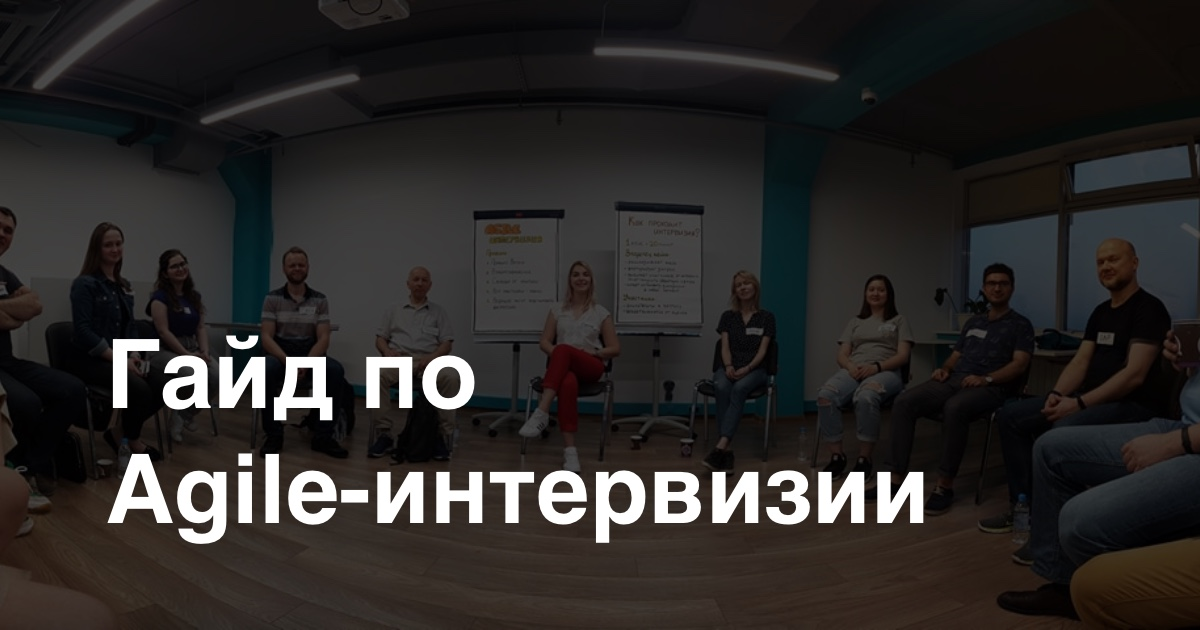
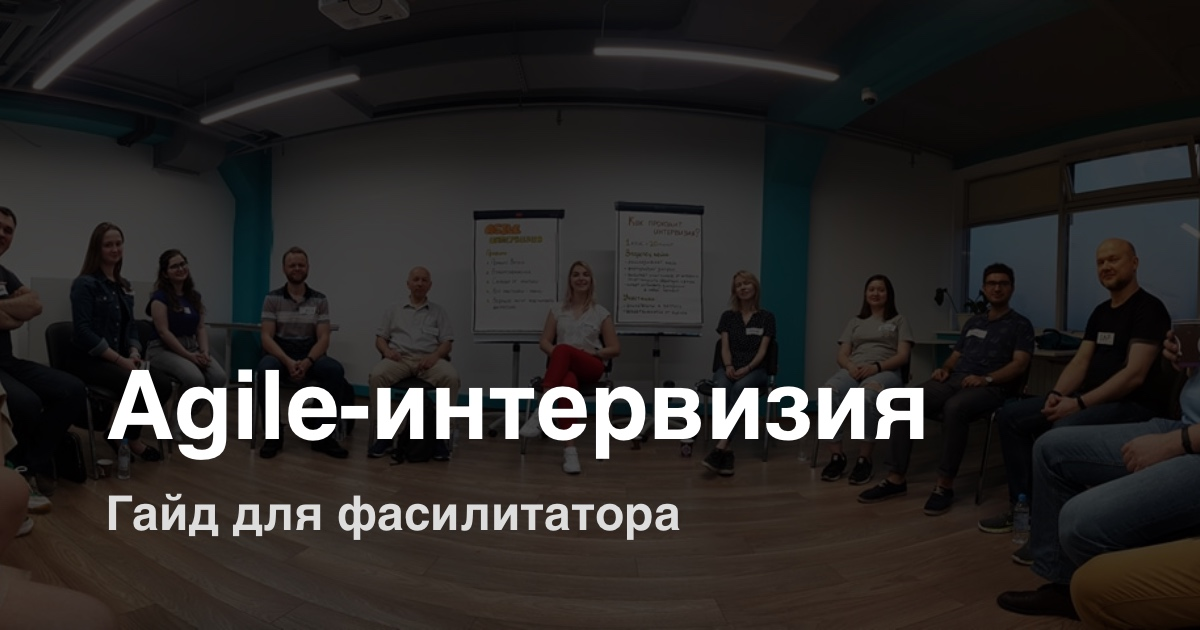
update content

Changed region(s): [[0.0925, 0.5127, 0.7708, 0.8746]]

diff --git a/index.html b/index.html
@@ -1,1 +1,1 @@
-<!DOCTYPE html><html lang="ru"><head><title>Гайд по Agile-интервизии</title><meta name="description" content="Agile-интервизия – это группа взаимопомощи для agile-коучей и scrum-мастеров, на ней участники получают ответы на свои вопросы, рекомендации или поддержку."><link rel="canonical" href="https://agileintervision.ru/"><meta name="viewport" content="width=device-width,initial-scale=1"><meta property="og:type" content="website"><meta name="og:title" content="Гайд по Agile-интервизии"><meta name="og:description" content="Agile-интервизия – это группа взаимопомощи для agile-коучей и scrum-мастеров, на ней участники получают ответы на свои вопросы, рекомендации или поддержку."><meta name="og:image" content="https://agileintervision.ru/assets/image.jpg?v=ffbb9b"><meta name="og:url" content="https://agileintervision.ru/"><meta name="og:locale" content="ru_RU"><link rel="stylesheet" type="text/css" href="/style.css?v=2ea6f5"><script async src="https://www.googletagmanager.com/gtag/js?id=UA-163700219-1"></script><script type="text/javascript">function gtag(){dataLayer.push(arguments)}window.dataLayer=window.dataLayer||[],gtag("js",new Date),gtag("config","UA-163700219-1")</script><link rel="apple-touch-icon" sizes="152x152" href="/favicons/apple-touch-icon.png?v=c8e92b"><link rel="icon" type="image/png" sizes="32x32" href="/favicons/favicon-32x32.png?v=e825c5"><link rel="icon" type="image/png" sizes="16x16" href="/favicons/favicon-16x16.png?v=18a706"><link rel="manifest" href="/site.webmanifest?v=1e8a95"><link rel="mask-icon" href="/favicons/safari-pinned-tab.svg?v=e83e6f" color="#14b5d0"><link rel="shortcut icon" href="/favicon.ico"><meta name="msapplication-TileColor" content="#603cba"><meta name="msapplication-config" content="/browserconfig.xml?v=66f052"><meta name="theme-color" content="#f1fbfc"></head><body><div class="header"><div class="header-overlay"></div><div class="header-content"><div class="container"><h1>Гайд по Agile-интервизии</h1></div></div></div><div class="container"><p>Agile-интервизия – это группа взаимопомощи для Agile-коучей и scrum-мастеров.</p><p>На интервизии участники в небольшом кругу (до 20 человек) делятся своими запросами и получают от других участников то, что для них ценно: ответы на свои вопросы, поддержку, рекомендации или истории о чужом опыте.</p><p>Главный фокус интервизий и их отличие от случайной группы обмена опытом – доверительная и поддерживающая атмосфера (которую можно создать благодаря правилам и формату встреч, а также повышенному внимания ведущего к этому вопросу).</p></div><section class="container"><h2>Для кого</h2><p>Agile-интервизия рассчитана на agile-коучей и scrum-мастеров и не предполагает участия представителей других ролей.</p><blockquote><h5>Почему так?</h5>Представители помогающей профессии больше всего сталкиваются с выгоранием, отсутствием поддержки на работе и непониманием своей роли со стороны коллег. Эта роль часто требует нетривиального “ответа” на те или иные ситуации в команде или компании, отличающегося от ответа тимлида, менеджера проектов или участника команды.</blockquote></section><section class="container"><h2>Правила</h2><ol><li>Правило Вегаса</li><li>Свобода от критики и оценок</li><li>Взаимоуважение</li><li>Все участники равны</li><li>Ведущие могут модерировать дискуссию</li><li>Участники внимательны к запросу</li></ol><div class="online-only"><ol class="narrow" start="6"><li class="no-bullet"><b>Только для онлайн-интервизий</b></li><li>Полное присутствие (закрыть все остальные окна и выключить уведомления)</li><li>Включенная камера</li><li>Выключенный микрофон, когда говорят другие</li></ol></div></section><div class="container"><section><h2>План проведения</h2><p>Подготовьте плакаты с правилами интервизии и описанием того, как она проходит, разместите их в таком месте, чтобы они были хорошо видны на протяжении всей встречи, поставьте стулья в кружок.</p><div class="gallery"><div class="gallery-image"><img class="photo" src="/assets/poster1_sm.jpg?v=c267aa" data-original="/assets/poster1.png?v=e3abfa" alt="Правила Agile-интевизии"></div><div class="gallery-image"><img class="photo" src="/assets/poster2_sm.jpg?v=abe22d" data-original="/assets/poster2.png?v=368d7d" alt="Правила Agile-интевизии"></div></div><p>План фасилитации 3-часовой оффлайн интервизии выглядит так:</p><ol><li>Приветствие</li><li>Знакомство</li><li>Рассмотрение кейсов (2-3 кейса)</li><li>Перерыв (15-20 минут)</li><li>Рассмотрение кейсов (2-3 кейса)</li><li>Закрытие</li></ol><blockquote>Онлайн-интервизию имеет смысл сократить до 2 часов за счет уменьшения количества кейсов и более короткого перерыва.</blockquote></section><section><h3>Приветствие</h3><p class="subheader">Формирует атмосферу мероприятия, длительность – 7 минут</p><p>Расскажите участникам о том, <b>для чего</b> вы проводите интервизию, <b>какие ценности</b> видите в ней, <b>какой атмосферы</b> ожидаете. Очень подробно расскажите <b>о правилах</b> и попросите подтвердить согласие с ними (например, поднять палец вверх). Подробно расскажите <b>о формате</b>, в котором будут рассматриваться кейсы, чтобы участники знали, чего ожидать.</p></section><section><h3>Знакомство</h3><p class="subheader">Длительность – 10 минут</p></section><section><p>Просим участников по кругу представиться в таком формате:</p><ul><li>Как меня зовут?</li><li>Чем я занимаюсь? Какая у меня роль?</li><li>Есть ли у меня кейс, которые я хочу рассмотреть<br><i>(да/нет, не нужно рассказывать кейс)</i></li></ul></section><section><h3>Рассмотрение кейсов</h3><p class="subheader">2-3 кейса по 20 минут</p></section><blockquote><b>Кейс</b> – это любое затруднение, проблема, ситуация, вопрос или другая потребность участника, для которого ему требуется помощь от группы. Он может быть про конкретную проблему с командой, а может быть общим вопросом о том, кто как ставит цели в своих компаниях. Это может быть просьба выслушать и поддержать, или вопрос, требующий ссылок на материалы и литературу.</blockquote><p>Перед тем, как переходить к рассмотрению кейса, мы просим поднять руку тех, кто готов прямо сейчас представить свой кейс. Если подняты несколько рук, мы предлагаем участникам договориться.</p><p>Рассмотрение длится не более 20 минут, это время можно засечь на таймере.</p><ul><li>Владелец кейса рассказывает свой кейс и формулирует запрос - чего конкретно он хочет получить? (обратную связь, советы, ссылки, истории из личного опыта, вопросы, поддержку и т.п.)</li><li>Затем желающие поделиться/ответить на запрос поднимают руки, и владелец кейса сам фасилитирует дискуссию. Ведущий помогает ему в модерации, а также внимательно следит за соблюдением правил.</li><li>Когда остается около минуты, ведущий предлагает владельцу резюмировать, что полезного он для себя взял, что понял, что было важно.</li></ul><section><h3>Закрытие</h3><p class="subheader">Длительность - 15 минут</p><p>Попросите людей в свободном порядке высказаться о том, как они чувствуют себя в конце встречи, с какими мыслями и осознаваниями они уходят, что для них было сегодня важно. Уделите закрытию достаточно времени, чтобы оно могло пройти в спокойной обстановке.</p><blockquote>Закрытие помогает всем участникам ассимилировать новый опыт и эмоционально отреагировать на него.</blockquote></section></div><div class="container"><h2>На что обратить внимание</h2><ul><li>От того, насколько хорошо соблюдаются правила, критически зависит атмосфера доверия и поддержки на интервизии. Мы верим в то, что такая атмосфера - самое важное, что дает интервизия.</li><li>Ведущий должен следить за соблюдением всех правил (равенство участников, отсутствие критики, оценок, соответствие обратной связи тому, что было запрошено) и мягко корректировать дискуссию, если кто-то от них отклоняется.</li><li>Часто оценки и критика маскируются под вопросы и мнения. Стоит отслеживать это и просить участников соблюдать правила и быть внимательными к запросу.</li></ul><div class="online-only"><ul><li class="no-bullet"><b>Только для онлайн-интервизий</b></li><li>Онлайн-интервизия должна быть короче, потому что сидеть 3 часа у монитора достаточно утомительно</li><li>Уделяйте достаточное количество времени инструкциям по работе с выбранном для онлайн-конференции софтом <span>(например при работе в zoom стоит рассказать участникам про включение микрофона по пробелу и функции “поднять руку”)</span></li><li>Визуализация правил все также важна (например можно использовать Miro)</li><li>Включенные камеры у всех участников повышают доверие</li><li>Опаздывающие более чем на 10 минут участники рушат динамику, мы советуем не добавлять их в конференцию</li></ul></div></div><div class="container"><h2>Кто мы</h2><p>Напишите нам если у вас есть вопросы или предложения, или если вы хотите присоединиться к сообществу людей, проводящих и участвующих в Agile-интервизиях.</p><div class="authors"><div class="author"><img class="author-photo" src="/assets/abaptizmanskaya.jpg?v=9257b0" alt="Александра Баптизманская"><div class="author-information"><h4 class="author-name">Александра<br>Баптизманская</h4><a rel="nofollow" class="author-link" href="https://www.facebook.com/baptizmanskaya">fb.com/baptizmanskaya</a></div></div><div class="author"><img class="author-photo" src="/assets/echumachkova.jpg?v=9ac0bd" alt="Евгения Чумачкова"><div class="author-information"><h4 class="author-name">Евгения<br>Чумачкова</h4><a rel="nofollow" class="author-link" href="https://www.facebook.com/echumachkova">fb.com/echumachkova</a></div></div></div></div><script type="text/javascript" src="https://cdnjs.cloudflare.com/ajax/libs/zooming/2.1.1/zooming.min.js" async onload='new Zooming({}).listen(".photo")'></script></body></html>
+<!DOCTYPE html><html lang="ru"><head><title>Agile-интервизия</title><meta name="description" content="Agile-интервизия – это группа взаимопомощи для agile-коучей и scrum-мастеров, на ней участники получают ответы на свои вопросы, рекомендации или поддержку."><link rel="canonical" href="https://agileintervision.ru/"><meta name="viewport" content="width=device-width,initial-scale=1"><meta property="og:type" content="website"><meta name="og:title" content="Agile-интервизия"><meta name="og:description" content="Agile-интервизия – это группа взаимопомощи для agile-коучей и scrum-мастеров, на ней участники получают ответы на свои вопросы, рекомендации или поддержку."><meta name="og:image" content="https://agileintervision.ru/assets/image.jpg?v=7939e5"><meta name="og:url" content="https://agileintervision.ru/"><meta name="og:locale" content="ru_RU"><link rel="stylesheet" type="text/css" href="/style.css?v=8b0caa"><script async src="https://www.googletagmanager.com/gtag/js?id=UA-163700219-1"></script><script type="text/javascript">function gtag(){dataLayer.push(arguments)}window.dataLayer=window.dataLayer||[],gtag("js",new Date),gtag("config","UA-163700219-1")</script><link rel="apple-touch-icon" sizes="152x152" href="/favicons/apple-touch-icon.png?v=c8e92b"><link rel="icon" type="image/png" sizes="32x32" href="/favicons/favicon-32x32.png?v=e825c5"><link rel="icon" type="image/png" sizes="16x16" href="/favicons/favicon-16x16.png?v=18a706"><link rel="manifest" href="/site.webmanifest?v=1e8a95"><link rel="mask-icon" href="/favicons/safari-pinned-tab.svg?v=e83e6f" color="#14b5d0"><link rel="shortcut icon" href="/favicon.ico"><meta name="msapplication-TileColor" content="#603cba"><meta name="msapplication-config" content="/browserconfig.xml?v=66f052"><meta name="theme-color" content="#f1fbfc"></head><body><div class="header"><div class="header-overlay"></div><div class="header-content"><div class="container"><h1>Agile-интервизия</h1><div class="subheader" style="padding-left: 2px;">Гайд для фасилитатора</div></div></div></div><div class="container"><p>Agile-интервизия – это группа взаимопомощи для agile-коучей и scrum-мастеров.</p><p>На интервизии участники в небольшом кругу (до 20 человек) делятся своими запросами и получают от других участников то, что для них ценно: ответы на свои вопросы, поддержку, рекомендации или истории о чужом опыте.</p><p>Главный фокус интервизий и их отличие от случайной группы обмена опытом – доверительная и поддерживающая атмосфера (которую можно создать благодаря правилам и формату встреч, а также повышенному внимания ведущего к этому вопросу).</p><blockquote class="warning gutter"><h5>Дисклеймер</h5><p>Мы – <a href="#about-us">Евгения Чумачкова</a> и <a href="#about-us">Александра Баптизманская</a> начали проводить agile-интервизии в 2018 году. С тех пор сообщество их участников сильно выросло, а география расширилась.</p><p>Мы создали этот гайд и описали в нем формат проведения agile-интервизий, который мы считаем оптимальным и используем на наших встречах.</p></blockquote></div><section class="container"><h2>Для кого</h2><p>Agile-интервизия рассчитана на agile-коучей и scrum-мастеров и не предполагает участия представителей других ролей.</p><blockquote><h5>Почему так?</h5>Представители помогающей профессии больше всего сталкиваются с выгоранием, отсутствием поддержки на работе и непониманием своей роли со стороны коллег. Эта роль часто требует нетривиального “ответа” на те или иные ситуации в команде или компании, отличающегося от ответа тимлида, менеджера проектов или участника команды.</blockquote></section><section class="container"><h2>Правила</h2><ol><li>Правило Вегаса</li><li>Свобода от критики и оценок</li><li>Взаимоуважение</li><li>Все участники равны</li><li>Ведущие могут модерировать дискуссию</li><li>Участники внимательны к запросу</li></ol><div class="highlight"><ol class="narrow" start="6"><li class="no-bullet"><b>Только для онлайн-интервизий</b></li><li>Полное присутствие (закрыть все остальные окна и выключить уведомления)</li><li>Включенная камера</li><li>Выключенный микрофон, когда говорят другие</li></ol></div></section><div class="container"><section><h2>План проведения</h2><p>Подготовьте плакаты с правилами интервизии и описанием того, как она проходит, разместите их в таком месте, чтобы они были хорошо видны на протяжении всей встречи, поставьте стулья в кружок.</p><div class="gallery"><div class="gallery-image"><img class="photo" src="/assets/poster1_sm.jpg?v=c267aa" data-original="/assets/poster1.png?v=e3abfa" alt="Правила agile-интевизии"></div><div class="gallery-image"><img class="photo" src="/assets/poster2_sm.jpg?v=abe22d" data-original="/assets/poster2.png?v=368d7d" alt="Правила agile-интевизии"></div></div><p>План фасилитации 3-часовой оффлайн интервизии выглядит так:</p><ol><li>Приветствие</li><li>Знакомство</li><li>Рассмотрение кейсов (2-3 кейса)</li><li>Перерыв (15-20 минут)</li><li>Рассмотрение кейсов (2-3 кейса)</li><li>Закрытие</li></ol><blockquote>Онлайн-интервизию имеет смысл сократить до 2 часов за счет уменьшения количества кейсов и более короткого перерыва.</blockquote></section><section><h3>Приветствие</h3><p class="subheader">Формирует атмосферу мероприятия, длительность – 7 минут</p><p>Расскажите участникам о том, <b>для чего</b> вы проводите интервизию, <b>какие ценности</b> видите в ней, <b>какой атмосферы</b> ожидаете. Очень подробно расскажите <b>о правилах</b> и попросите подтвердить согласие с ними (например, поднять палец вверх). Подробно расскажите <b>о формате</b>, в котором будут рассматриваться кейсы, чтобы участники знали, чего ожидать.</p></section><section><h3>Знакомство</h3><p class="subheader">Длительность – 10 минут</p></section><section><p>Просим участников по кругу представиться в таком формате:</p><ul><li>Как меня зовут?</li><li>Чем я занимаюсь? Какая у меня роль?</li><li>Есть ли у меня кейс, которые я хочу рассмотреть<br><i>(да/нет, не нужно рассказывать кейс)</i></li></ul></section><section><h3>Рассмотрение кейсов</h3><p class="subheader">5-6 кейсов по 20 минут</p></section><blockquote><b>Кейс</b> – это любое затруднение, проблема, ситуация, вопрос или другая потребность участника, для которого ему требуется помощь от группы. Он может быть про конкретную проблему с командой, а может быть общим вопросом о том, кто как ставит цели в своих компаниях. Это может быть просьба выслушать и поддержать, или вопрос, требующий ссылок на материалы и литературу.</blockquote><p>Перед тем, как переходить к рассмотрению кейса, мы просим поднять руку тех, кто готов прямо сейчас представить свой кейс. Если подняты несколько рук, мы предлагаем участникам договориться.</p><p>Рассмотрение длится не более 20 минут, это время можно засечь на таймере.</p><ul><li>Владелец кейса рассказывает свой кейс и формулирует запрос - чего конкретно он хочет получить? (обратную связь, советы, ссылки, истории из личного опыта, вопросы, поддержку и т.п.)</li><li>Затем желающие поделиться/ответить на запрос поднимают руки, и владелец кейса сам фасилитирует дискуссию. Ведущий помогает ему в модерации, а также внимательно следит за соблюдением правил.</li><li>Когда остается около минуты, ведущий предлагает владельцу резюмировать, что полезного он для себя взял, что понял, что было важно.</li></ul><section><h3>Закрытие</h3><p class="subheader">Длительность - 15 минут</p><p>Попросите людей в свободном порядке высказаться о том, как они чувствуют себя в конце встречи, с какими мыслями и осознаваниями они уходят, что для них было сегодня важно. Уделите закрытию достаточно времени, чтобы оно могло пройти в спокойной обстановке.</p><blockquote>Закрытие помогает всем участникам ассимилировать новый опыт и эмоционально отреагировать на него.</blockquote></section></div><div class="container"><h2>На что обратить внимание</h2><ul><li>От того, насколько хорошо соблюдаются правила, критически зависит атмосфера доверия и поддержки на интервизии. Мы верим в то, что такая атмосфера - самое важное, что дает интервизия.</li><li>Ведущий должен следить за соблюдением всех правил (равенство участников, отсутствие критики, оценок, соответствие обратной связи тому, что было запрошено) и мягко корректировать дискуссию, если кто-то от них отклоняется.</li><li>Часто оценки и критика маскируются под вопросы и мнения. Стоит отслеживать это и просить участников соблюдать правила и быть внимательными к запросу.</li></ul><div class="highlight"><ul><li class="no-bullet"><b>Только для онлайн-интервизий</b></li><li>Онлайн-интервизия должна быть короче, потому что сидеть 3 часа у монитора достаточно утомительно</li><li>Уделяйте достаточное количество времени инструкциям по работе с выбранном для онлайн-конференции софтом <span>(например при работе в zoom стоит рассказать участникам про включение микрофона по пробелу и функции “поднять руку”)</span></li><li>Визуализация правил все так же важна (например, можно использовать Miro)</li><li>Включенные камеры у всех участников повышают доверие</li><li>Опаздывающие более чем на 10 минут участники рушат динамику, мы советуем не добавлять их в конференцию</li></ul></div></div><div id="about-us" class="container"><h2>Кто мы</h2><p>Напишите нам, если у вас есть вопросы или предложения или если вы хотите присоединиться к сообществу людей, проводящих и участвующих в agile-интервизиях.</p><div class="authors"><div class="author"><img class="author-photo" src="/assets/abaptizmanskaya.jpg?v=9257b0" alt="Александра Баптизманская"><div class="author-information"><h4 class="author-name">Александра<br>Баптизманская</h4><a rel="nofollow" class="author-link" href="https://www.facebook.com/baptizmanskaya">fb.com/baptizmanskaya</a></div></div><div class="author"><img class="author-photo" src="/assets/echumachkova.jpg?v=9ac0bd" alt="Евгения Чумачкова"><div class="author-information"><h4 class="author-name">Евгения<br>Чумачкова</h4><a rel="nofollow" class="author-link" href="https://www.facebook.com/echumachkova">fb.com/echumachkova</a></div></div></div></div><script type="text/javascript" src="https://cdnjs.cloudflare.com/ajax/libs/zooming/2.1.1/zooming.min.js" async onload='new Zooming({}).listen(".photo")'></script><script type="text/javascript">function smoothScrollHandler(e){var t=document.querySelector(e.target.getAttribute("href"));if(t)try{t.scrollIntoView({behavior:"smooth"}),e.preventDefault()}catch(e){}}!function(){for(var e=document.querySelectorAll('a[href^="#"]'),t=0;t<e.length;t++){e[t].addEventListener("click",smoothScrollHandler)}}()</script></body></html>

diff --git a/style.css b/style.css
@@ -1,1 +1,1 @@
-body{margin:0;padding:0 0 24px;font-size:16px;font-family:Helvetica,sans-serif;color:#222;line-height:150%}.container{max-width:720px;padding:0 40px;margin:0 auto}a{color:#007489}a:hover{color:#14b5d0}h1{font-size:32px;font-weight:700;line-height:normal;padding-bottom:8px;margin:0 0 24px;border-bottom:2px solid #f1fbfc}h1,h2,h3,h4,h5{color:#007489}h2{font-size:28px;margin-top:40px;margin-bottom:20px}h3{font-size:18px;margin-top:24px;margin-bottom:12px}h3+.subheader{font-style:italic;color:rgba(0,116,137,.8);margin-top:-8px;margin-bottom:10px}blockquote,p{margin:0 0 16px}blockquote{padding:12px 16px 12px 32px;border-left:8px solid #14b5d0;display:block;background:#f1fbfc;color:#007489}blockquote h5{font-size:inherit;margin:0 0 8px;padding:0;color:#007489;font-weight:700}b{color:#007489}.secondary{color:#777;font-style:italic}ol.narrow,ul.narrow{margin:0}li{margin:4px 0}li.header,li.no-bullet{list-style:none}li.header{margin:0 0 12px;font-weight:700}img{max-width:100%;margin-bottom:16px}.authors{display:flex;justify-content:space-between}.author{min-width:320px;max-width:340px;display:flex}.author+.author{margin-left:40px}.author-photo{max-width:120px;min-width:100px;max-height:150px;-o-object-fit:cover;object-fit:cover;margin-right:12px}.author-name{margin:0;padding:0}.online-only{padding:4px 16px 4px 0;background:#f1fbfc;color:#007489}.gallery{display:flex;justify-content:center}.gallery-image{width:120px}.gallery-image+.gallery-image{margin-left:40px}.header{height:420px;position:relative;overflow:hidden;background:#333 url(/assets/promo.jpg?v=53eeed) 50%;background-size:cover;margin-bottom:24px}.header-overlay{top:0;height:100%;background:rgba(0,116,137,.7)}.header-content,.header-overlay{position:absolute;left:0;width:100%}.header-content{bottom:24px}.header h1{font-size:48px;color:#fff}@media (max-width:759px){.authors{flex-direction:column}.author+.author{margin-left:0;margin-top:20px}}@media (max-width:419px){.container{min-width:280px;padding:0 32px}}@media print{body{margin:0}@page{size:auto;margin:20mm 20mm 20mm 20mm}blockquote,section{-moz-column-break-inside:avoid;break-inside:avoid}blockquote{padding:2px 16px 2px 34px;border-left-width:6px;background:transparent}}
+body{margin:0;padding:0 0 24px;font-size:16px;font-family:Helvetica,sans-serif;color:#222;line-height:150%}.container{max-width:720px;padding:0 40px;margin:0 auto}a{color:#007489}a:hover{color:#14b5d0}h1{font-size:32px;font-weight:700;line-height:normal;padding-bottom:8px;margin:0 0 24px}h1,h2,h3,h4,h5{color:#007489}h2{font-size:28px;margin-top:40px;margin-bottom:20px}h3{font-size:18px;margin-top:24px;margin-bottom:12px}h3+.subheader{font-style:italic;color:rgba(0,116,137,.8);margin-top:-8px;margin-bottom:10px}p{margin:0 0 16px}.gutter{margin-top:40px;margin-bottom:40px}blockquote.warning{background:#fef8e7;border-left-color:#f7d154;color:#7e6514}blockquote.warning a{color:#7e6514}blockquote.warning a:hover{color:#c29c1e}blockquote{margin:0 0 16px;padding:12px 16px 12px 32px;border-left:8px solid #14b5d0;display:block;background:#f1fbfc;color:#007489}blockquote h5{font-size:inherit;margin:0 0 8px;padding:0;color:inherit;font-weight:700}blockquote p:last-child{margin-bottom:0}b{color:#007489}.secondary{color:#777;font-style:italic}ol.narrow,ul.narrow{margin:0}li{margin:4px 0}li.header,li.no-bullet{list-style:none}li.header{margin:0 0 12px;font-weight:700}img{max-width:100%;margin-bottom:16px}.authors{display:flex;justify-content:space-between}.author{min-width:320px;max-width:340px;display:flex}.author+.author{margin-left:40px}.author-photo{max-width:120px;min-width:100px;max-height:150px;-o-object-fit:cover;object-fit:cover;margin-right:12px}.author-name{margin:0;padding:0}.highlight{padding:4px 16px 4px 0;background:#f1fbfc;color:#007489}.gallery{display:flex;justify-content:center}.gallery-image{width:120px}.gallery-image+.gallery-image{margin-left:40px}.header{height:420px;position:relative;overflow:hidden;background:#333 url(/assets/promo.jpg?v=53eeed) 50%;background-size:cover;margin-bottom:24px}.header-overlay{top:0;height:100%;background:rgba(0,116,137,.7)}.header-content,.header-overlay{position:absolute;left:0;width:100%}.header-content{bottom:24px}.header h1{font-size:48px;color:#fff;padding-bottom:0;margin-bottom:12px}.header h1+.subheader{color:#eee;font-size:20px;margin-bottom:24px}@media (max-width:759px){.authors{flex-direction:column}.author+.author{margin-left:0;margin-top:20px}}@media (max-width:419px){.container{min-width:280px;padding:0 32px}}@media print{body{margin:0}@page{size:auto;margin:20mm 20mm 20mm 20mm}blockquote,section{-moz-column-break-inside:avoid;break-inside:avoid}blockquote{padding:2px 16px 2px 34px;border-left-width:6px;background:transparent}}
